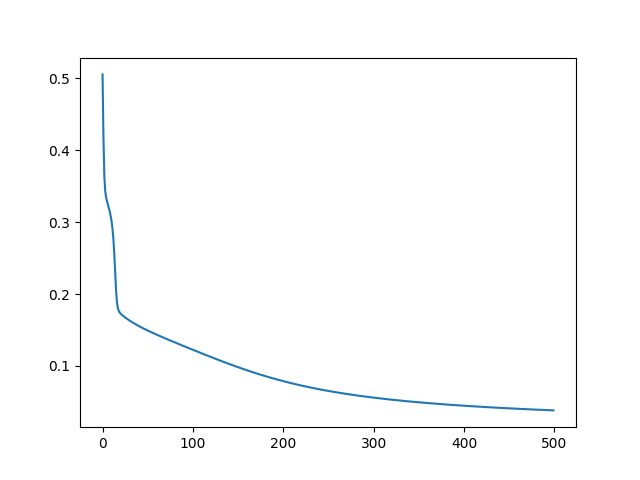
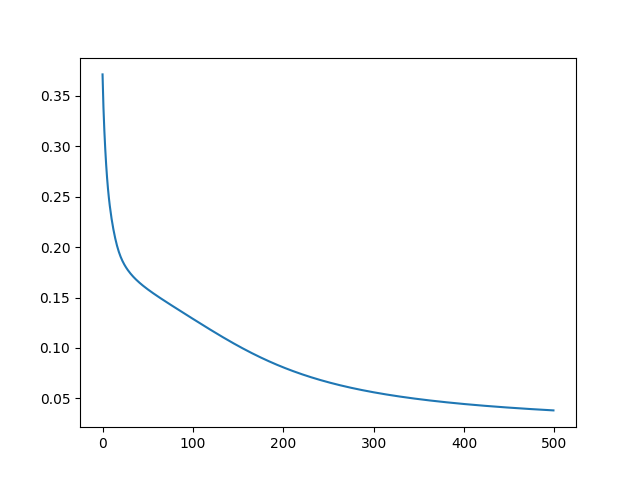
refactor: Rearchitect neural network to an object-oriented design
Refactor the entire implementation from a single procedural script to a more robust, object-oriented architecture based on the separation of concerns.

Key changes:
- **Layer**: An abstract base class responsible for forward and backward passes.
- **Model**: Manages the sequence of layers and controls the overall training and prediction flow.
- **Optimizer**: Separates the weight update logic (e.g., SGD) into its own class.
- **ActivationFunction, LossFunction**: Encapsulate functions and their derivatives into swappable classes.

This new design significantly improves the extensibility, reusability, and maintainability of the code.

diff --git a/main.py b/main.py
@@ -32,7 +32,14 @@ class Layer(ABC):
         # 次の層の誤差信号を受け取り, 自身の重み行列による誤差の微分を計算する.  
         pass
 
-class HiddenLayer(Layer):
+    @classmethod
+    def to2D(cls, x):
+        if len(x.shape) == 1:
+            return x[:, np.newaxis]
+        return x
+
+
+class FullyConnectedLayer(Layer):
     def __init__(self, input_size, output_size, activation_function: ActivationFunction):
         self.input_size = input_size + 1 # bias
         self.output_size = output_size
@@ -44,61 +51,84 @@ class HiddenLayer(Layer):
     
     def forward(self, x):
         self.input = np.append(x, 1)
-        if len(self.input) == 1:
-            self.input = self.input[:, np.newaxis] # make 2D for batch process
+        self.input = self.to2D(self.input)
         self.output = self.activation_function(self.weights @ self.input)
-        return self.activation_function(self.weights @ self.input)
+        self.output = self.to2D(self.output)
+        return self.output
     
     def backward(self, dout):
         delta = dout * self.activation_function.differentiation(self.output)
         self.dw = delta @ self.input.T
-        return self.weights[:-1].T @ delta
+        return self.weights[:, :-1].T @ delta
+
+class Optimizer(ABC):
+    @abstractmethod
+    def update(self, layers: list[Layer]):
+        pass
+
+class SGD(Optimizer):
+    def __init__(self, learning_rate):
+        self.learning_rate = learning_rate
+
+    def update(self, layers: list[Layer]):
+        for layer in layers:
+            layer.weights -= self.learning_rate * layer.dw
+
+class LossFunction(ABC):
+    @abstractmethod
+    def __init__(self):
+        pass
+
+    @abstractmethod
+    def __call__(self, output, teacher):
+        pass
+
+    @abstractmethod
+    def differentiation(self, output, teacher):
+        pass
+
+class MSE(LossFunction):
+    def __init__(self):
+        pass
+
+    def __call__(self, output, teacher):
+        return 1/2 * np.sum((output - teacher) ** 2)
     
-    @property
-    def dw(self):
-        return self.dw
-
-class OutputLayer(HiddenLayer):
-    def __init__(self, input_size, output_size, activation_function: ActivationFunction):
-        self.input_size = input_size + 1 # bias
-        self.output_size = output_size
-        self.activation_function = activation_function
-        self.weights = np.random.randn(self.input_size * self.output_size).reshape((self.output_size, self.input_size))
-        self.dw = None
-        self.input = None
-        self.output = None
-
-    def forward(self, x):
-        self.input = np.append(x, 1)
-        if len(self.input) == 1:
-            self.input = self.input[:, np.newaxis] # make 2D for batch process
-        self.output = self.activation_function(self.weights @ self.input)
-        return self.output
+    def differentiation(self, output, teacher):
+        return output - teacher
     
-    def backward(self, error_signal):
-        self.dw = error_signal @ self.input[:, np.newaxis].T
-        return error_signal[:-1] # the last record of error_signal is about next layer's bias so remove it
-        
-    @property
-    def dw(self):
-        return self.dw
-
 class Model:
-    def __init__(self, layers: list[Layer]):
+    def __init__(self, layers: list[Layer], optimizer: Optimizer, loss: LossFunction):
         self.layers = layers
-        self.differential = []
-    
+        self.output = None
+        self.optimizer = optimizer
+        self.loss_func = loss()
+
+
     def expect(self, x):
         for layer in self.layers:
             x = layer.forward(x)
         self.output = x
+        if len(self.output.shape) == 1:
+            self.output = self.output[:, np.newaxis] # make 2D for batch process
         return x
 
     def learn(self, teacher):
-        error_signal = self.output - teacher
+        teacher = self.to2D(teacher)
+        loss = self.loss_func(self.output, teacher)
+        error_signal = self.loss_func.differentiation(self.output, teacher)
         for layer in reversed(self.layers):
             error_signal = layer.backward(error_signal)
-        
+        self.optimizer.update(self.layers)
+        return loss
+    
+    def loss(self, output, teacher):
+        return self.loss_func(output, teacher)
+    
+    @classmethod
+    def to2D(cls, x):
+        return Layer.to2D(x)
+
 
 with mlflow.start_run():
     iris = datasets.load_iris()
@@ -112,76 +142,46 @@ with mlflow.start_run():
     teachers = np.eye(3)[teachers]
     train_inputs, test_inputs, train_teachers, test_teachers = sklearn.model_selection.train_test_split(inputs, teachers, test_size=0.2, random_state = 0)
 
-    # hidden layer: 16 neurons, output layer: 16 neurons
-    H = np.random.randn((inputs.shape[1] + 1) * 16).reshape((16, inputs.shape[1] + 1)) # bias
-    O = np.random.randn((16 + 1) * teachers.shape[1]).reshape((teachers.shape[1], 16+1)) # bias
-
-    def sigmoid(v):
-        return 1 / (np.exp(-v) + 1)
-
-    def sigmoid_differention(v):
-        return v * (1 - v)
-
     # learning rate
     eta = 0.01
     epochs = 500
     mlflow.log_param("eta", eta)
     mlflow.log_param("epochs", epochs)
 
+    HiddenLayer = FullyConnectedLayer(train_inputs.shape[1], 16, Sigmoid())
+    OutputLayer = FullyConnectedLayer(16, train_teachers.shape[1], Sigmoid())
+    optimizer = SGD(eta)
+    model = Model([HiddenLayer, OutputLayer], optimizer, MSE)
+
     errors = []
 
-    for _ in range(epochs):
-        esum = 0
+    for epoch in range(epochs):
+        error_sum = 0
         for i, t in zip(train_inputs, train_teachers):
-            i = i.reshape((i.shape[0], 1))
-            # forward propagation
-            i = np.append(i, 1)
-            mh = H @ i
-            oh = sigmoid(mh)
-            oh = np.append(oh, 1)
-            mo = O @ oh
-            oo = sigmoid(mo)
-            e = oo - t
-            E = 1/2 * (e @ e)
-            esum += E
-            # backpropagation
-            do = e * oo * (1 - oo)
-            # remove weights about bias
-            do = do[:, np.newaxis]
-            oh = oh[:, np.newaxis]
-            eo = do @ oh.T
-            dh = (O.T @ do)[:-1] * oh[:-1] * (1 - oh[:-1])
-            i = i[:, np.newaxis]
-            eh = dh @ i.T
-            O -= eta * eo
-            H -= eta * eh
-        # print(esum / len(train_inputs))
-        errors.append(esum / len(train_inputs))
+            model.expect(i)
+            error_sum += model.learn(t)
+        errors.append(error_sum / len(train_inputs))
+        mlflow.log_metric("training_loss", error_sum / len(train_inputs), step=epoch)
+            
 
     from matplotlib import pyplot as plt
-    plt.plot(errors)
-    plt.savefig("error.png")
+    fig, ax = plt.subplots()
+
+    ax.plot(errors)
+    fig.savefig("error.png")
     mlflow.log_artifact("error.png")
     mlflow.log_metrics({"error": errors[-1]})
-    np.savez("weights.npz", H=H, O=O)
+    np.savez("weights.npz", model.layers[0].weights, model.layers[1].weights)
     mlflow.log_artifact("weights.npz")
 
     o = []
 
     # test
     for i, t in zip(test_inputs, test_teachers):
-        i = i.reshape((i.shape[0], 1))
-        # forward propagation
-        i = np.append(i, 1)
-        mh = H @ i
-        oh = sigmoid(mh)
-        oh = np.append(oh, 1)
-        mo = O @ oh
-        oo = sigmoid(mo)
-        o.append((np.argmax(oo), np.argmax(t)))
-        e = oo - t
-        E = 1/2 * (e @ e)
+        out = model.expect(i)
+        E = model.loss_func(out, t)
         print(E)
+        o.append((np.argmax(out, axis=0), np.argmax(t, axis=0)))
 
     # visualize
     a = np.zeros((3, 3))
@@ -189,6 +189,7 @@ with mlflow.start_run():
         a[o[0], o[1]] += 1
     print(a)
     import seaborn as sns
-    sns.heatmap(a, annot=True, fmt=".0f")
-    plt.savefig("confusion_matrix.png")
+    fig, ax = plt.subplots()
+    sns.heatmap(a, annot=True, fmt=".0f", ax=ax)
+    fig.savefig("confusion_matrix.png")
     mlflow.log_artifact("confusion_matrix.png")
